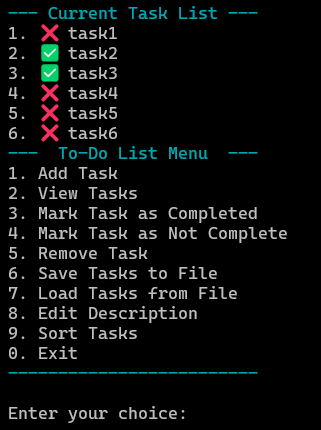
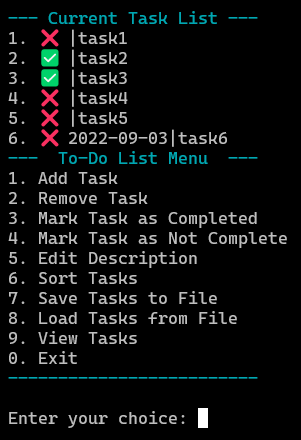
refactor(menu): change menu ordering

Changed region(s): [[0.0299, 0.0, 0.9568, 0.8767], [0.0299, 0.9372, 0.6279, 0.9977], [0.6578, 0.907, 0.7176, 0.9977]]

diff --git a/src/utils.cpp b/src/utils.cpp
@@ -39,14 +39,14 @@ int clearConsole() {
 void displayMenu() {
 	std::cout << COLOR_CYAN << "---  To-Do List Menu  ---" << COLOR_RESET << std::endl;
 	std::cout << "1. Add Task" << std::endl;
-	std::cout << "2. View Tasks" << std::endl;
+	std::cout << "2. Remove Task"<< std::endl;
 	std::cout << "3. Mark Task as Completed" << std::endl;
 	std::cout << "4. Mark Task as Not Complete" << std::endl;
-	std::cout << "5. Remove Task"<< std::endl;
-	std::cout << "6. Save Tasks to File" << std::endl;
-	std::cout << "7. Load Tasks from File" << std::endl;
-	std::cout << "8. Edit Description" << std::endl;
-	std::cout << "9. Sort Tasks" << std::endl;
+	std::cout << "5. Edit Description" << std::endl;
+	std::cout << "6. Sort Tasks" << std::endl;
+	std::cout << "7. Save Tasks to File" << std::endl;
+	std::cout << "8. Load Tasks from File" << std::endl;
+	std::cout << "9. View Tasks" << std::endl;
 	std::cout << "0. Exit" << std::endl;
 	std::cout << COLOR_CYAN << "-------------------------" << COLOR_RESET << std::endl;
 }

diff --git a/src/main.cpp b/src/main.cpp
@@ -44,9 +44,9 @@ int main (int argc, char** argv) {
 				handleAddTask(tasks);
 				break;
 
-			// view tasks
+			// remove tasks
 			case 2:
-				handleViewTasks(tasks);
+				handleRemoveTask(tasks);
 				break;
 
 			// mark completed
@@ -59,27 +59,27 @@ int main (int argc, char** argv) {
 				handleMarkTaskNotCompleted(tasks);
 				break;
 
-			// remove tasks
 			case 5:
-				handleRemoveTask(tasks);
+				handleEditDescription(tasks);
+				break;
+
+			case 6:
+				handleSortTasks(tasks);
 				break;
 
 			// save tasks
-			case 6:
+			case 7:
 				handleSaveTasks(tasks, FILENAME);
 				break;
 
 			// load tasks
-			case 7:
+			case 8:
 				handleLoadTasks(tasks, FILENAME);
 				break;
 
-			case 8:
-				handleEditDescription(tasks);
-				break;
-
+			// view tasks
 			case 9:
-				handleSortTasks(tasks);
+				handleViewTasks(tasks);
 				break;
 
 			// exit program

diff --git a/README.md b/README.md
@@ -20,6 +20,19 @@ This application allows users to manage their tasks directly from the command li
 	- Save the current list of tasks to a file (`tasks.txt` by default).
 	- Load tasks from the file when the application starts or via a menu option.
 
+## C++ Concepts Practiced
+
+This project was developed to practice and understand various C++ features, including:
+- Basic C++ Syntax & Control Flow (loops, conditionals)
+- Functions and Modular Design
+- Classes and Objects (for `Task` representation)
+- Standard Library Containers (`std::vector`)
+- Standard Library Strings (`std::string` manipulation)
+- Standard Library Algorithms (`std::sort` with custom comparators/lambdas)
+- File I/O (`std::ofstream`, `std::ifstream` for saving and loading)
+- Input/Output Streams (`std::cin`, `std::cout`, `std::cerr`)
+- Error Handling (input validation, EOF handling)
+
 ## Getting Started
 
 ### Build
